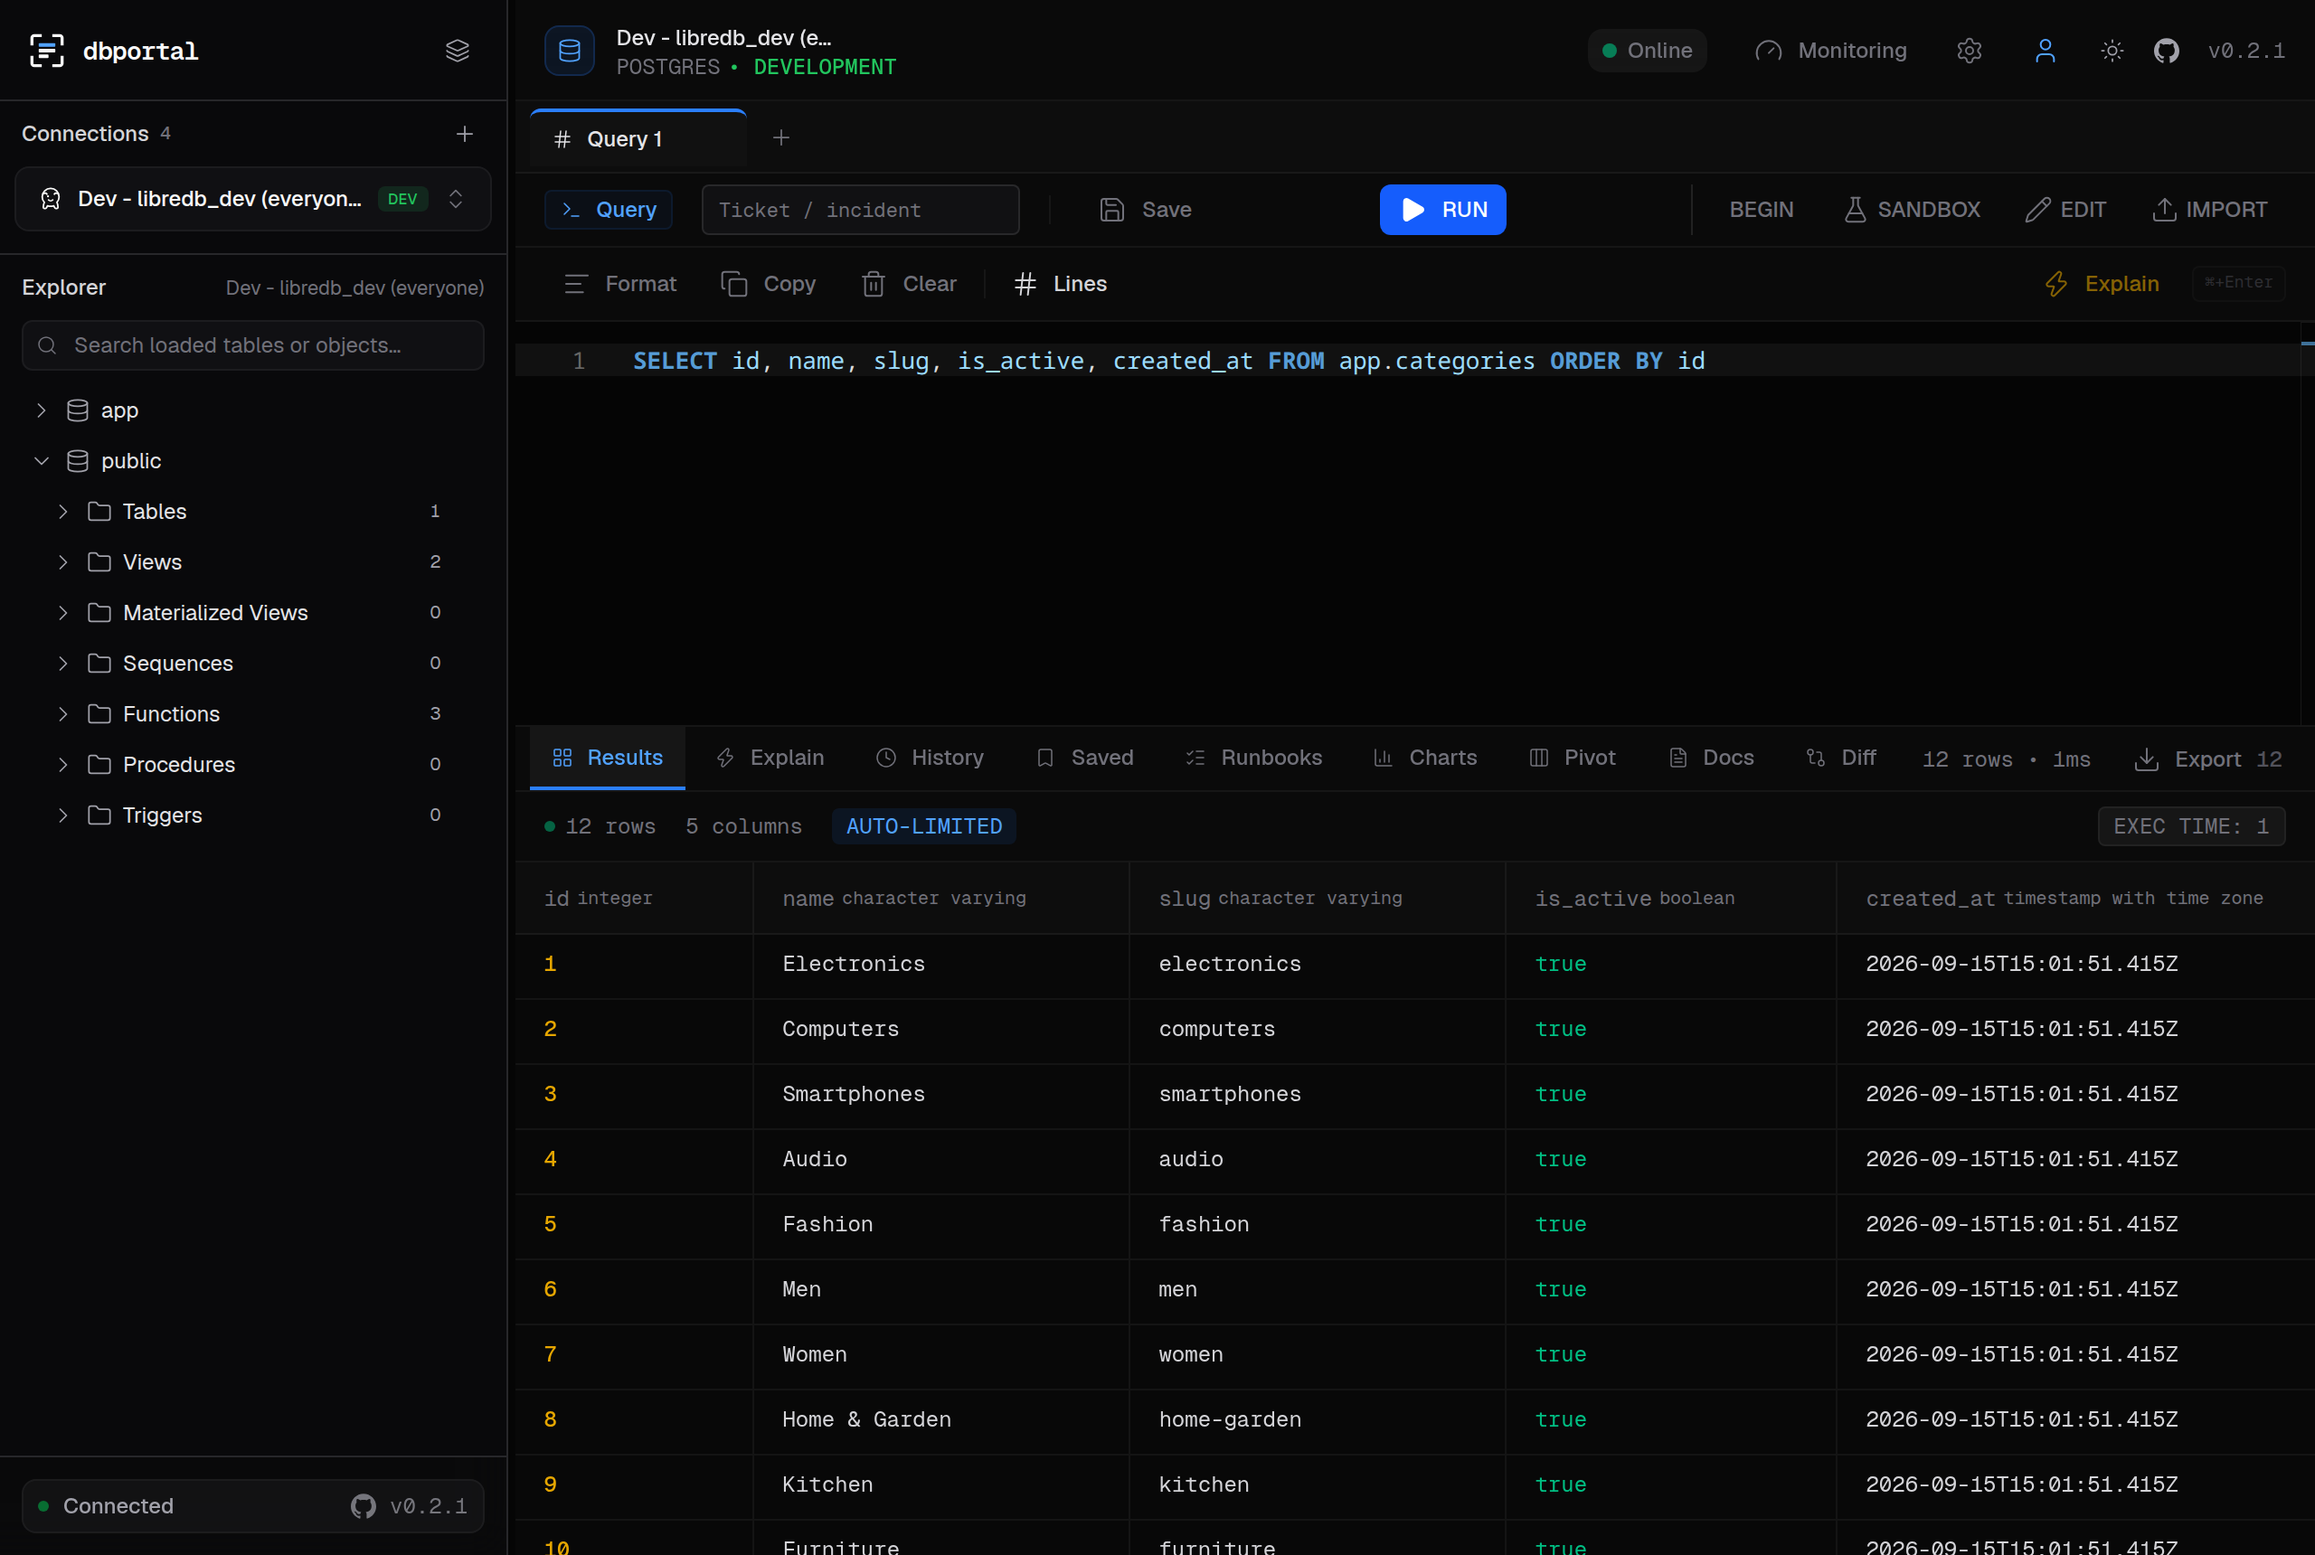
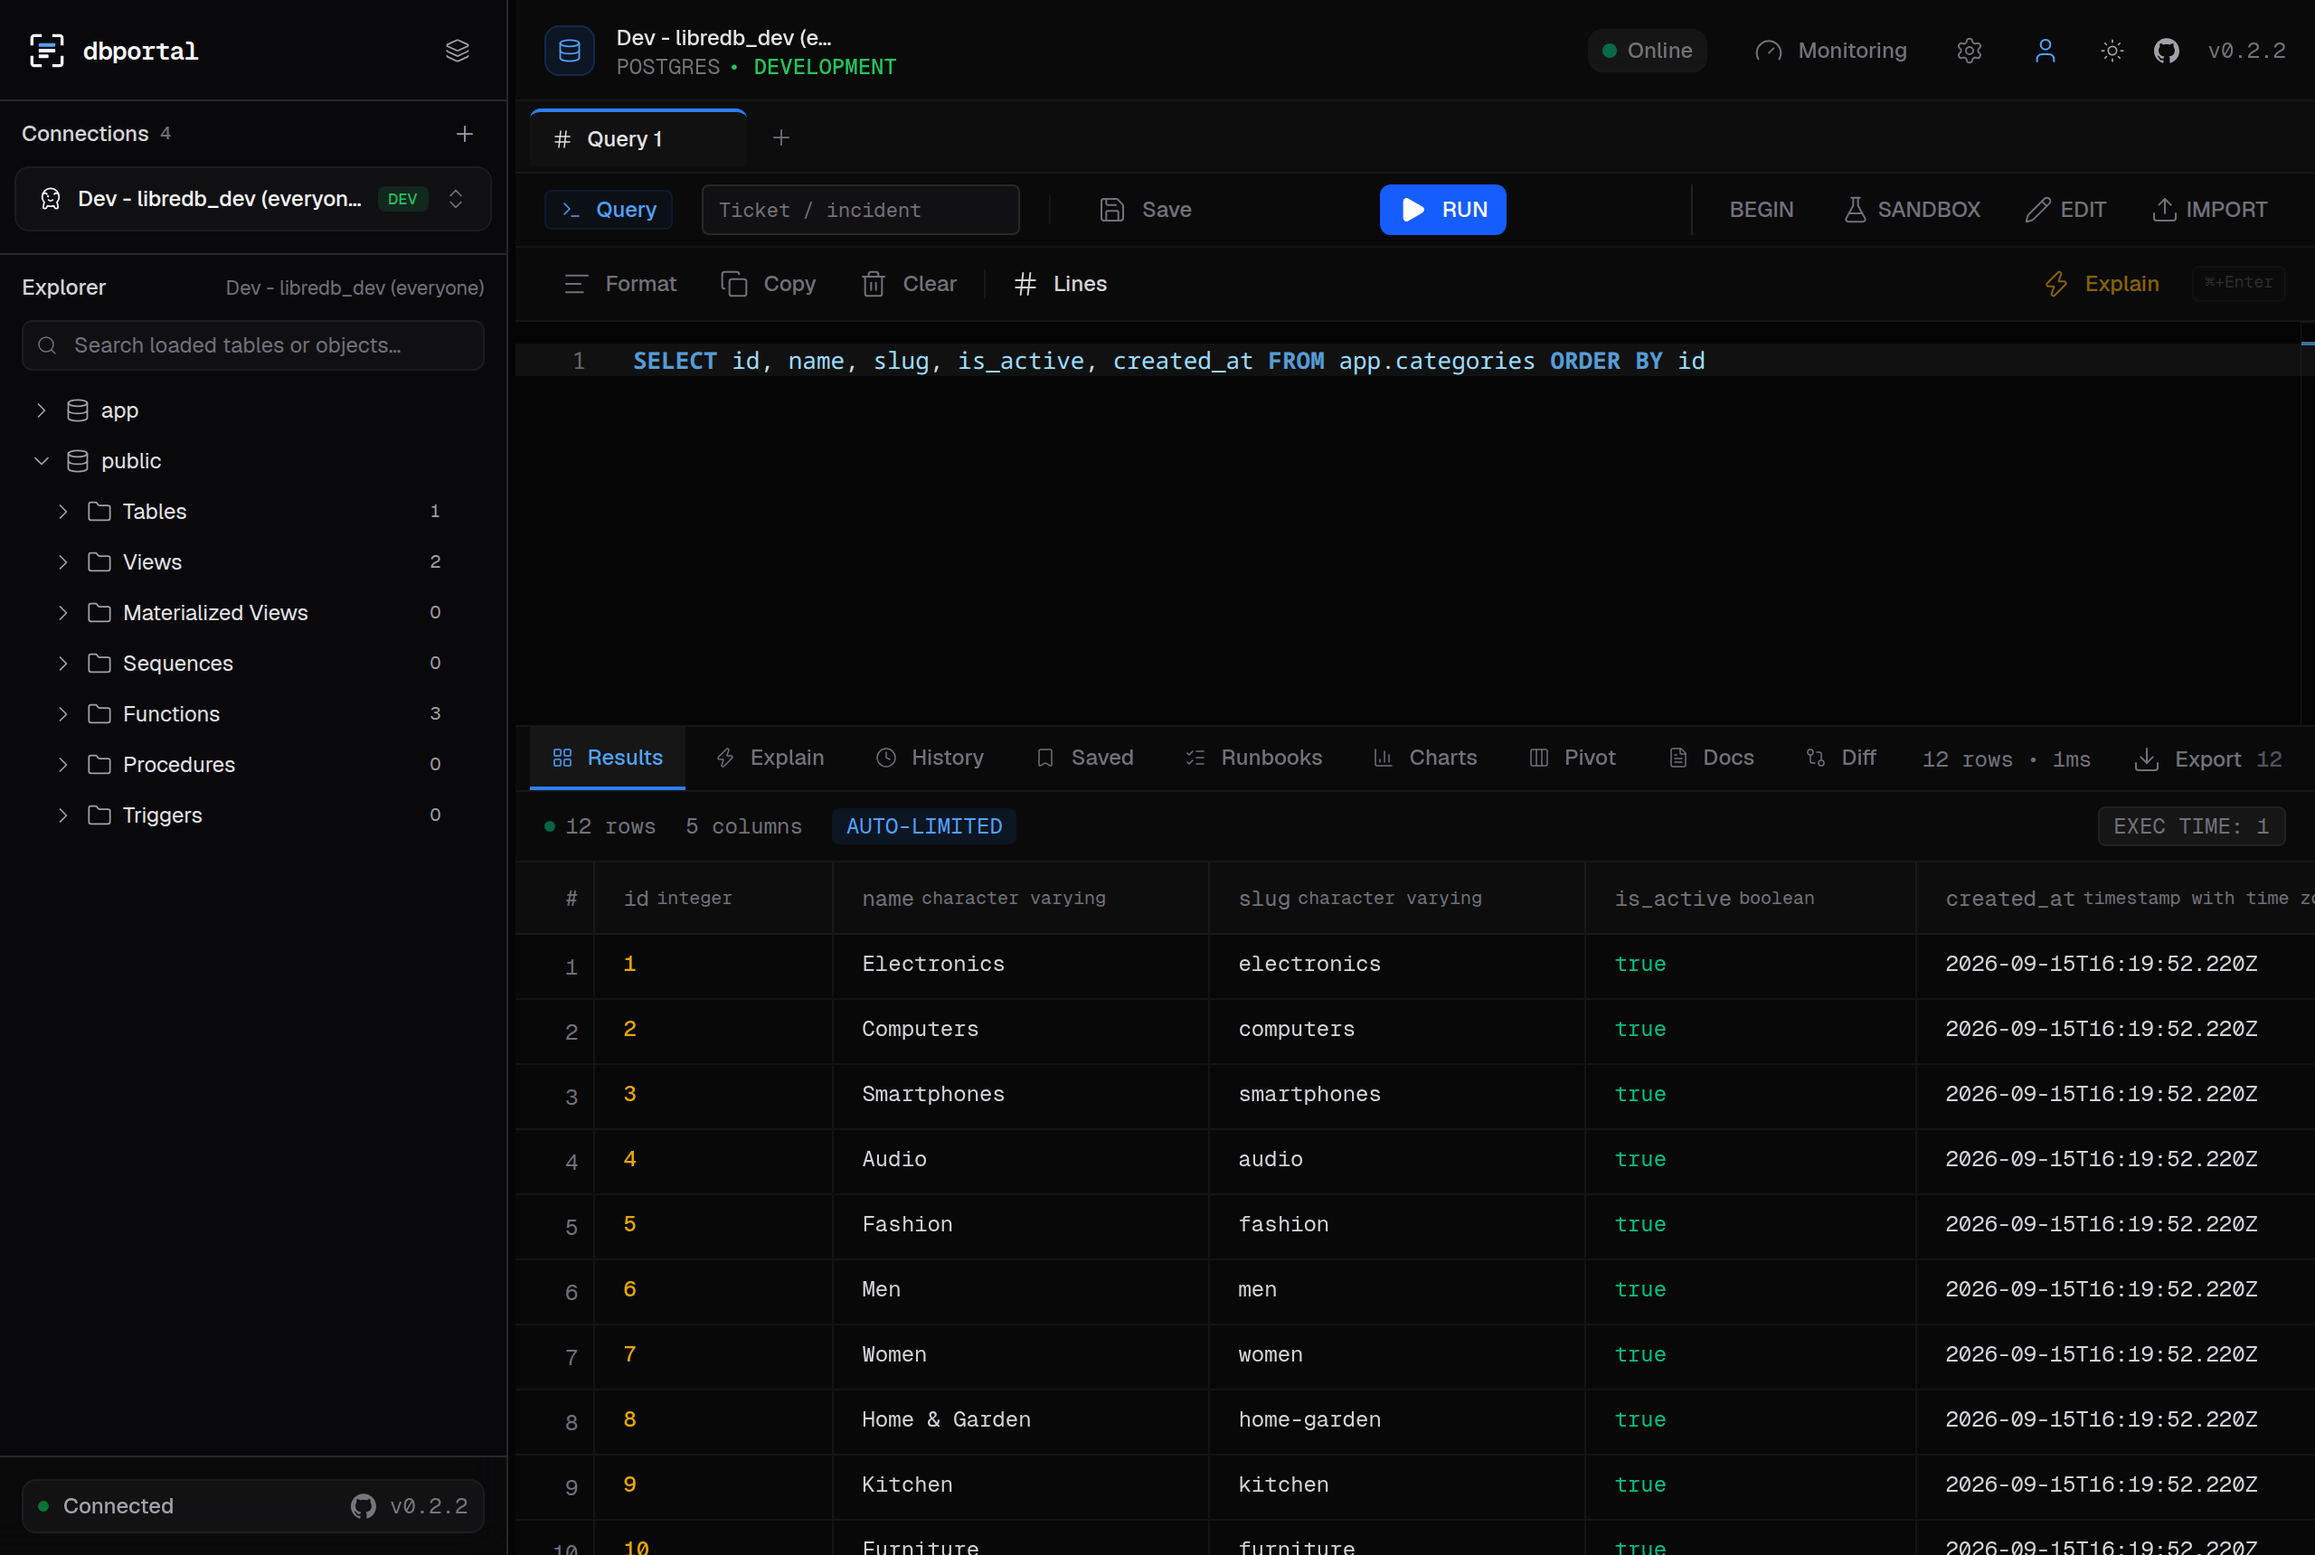
studio: a row-number column on every result
A sticky # column at the left of the grid, numbered by the position in
the order shown, so a sort or a filter renumbers from 1; wide enough for
the count and taken off the width the data columns stretch into. It is
no data column: exports, filters and sorting never see it. The screenshot
script picks the datasource by id (SHOT_DATASOURCE) so the studio picture
runs its statement where the tables are.

diff --git a/src/components/ResultsGrid.tsx b/src/components/ResultsGrid.tsx
@@ -476,10 +476,14 @@ export function ResultsGrid({
   useEffect(() => {
     sizedByHand.current = false;
   }, [result]);
+  // The row-number column (§4.42): the position in the order shown, wide enough for the count.
+  const rowNumberWidth = Math.max(44, Math.round(String(filteredRows.length).length * 7.2 + 24));
   useEffect(() => {
     if (sizedByHand.current) return;
-    setColumnSizing(fillWidth(fitColumns(result.fields, result.rows, result.columnTypes), containerWidth));
-  }, [result, containerWidth]);
+    setColumnSizing(
+      fillWidth(fitColumns(result.fields, result.rows, result.columnTypes), containerWidth - rowNumberWidth),
+    );
+  }, [result, containerWidth, rowNumberWidth]);
   const fitOne = useCallback(
     (field: string) => {
       sizedByHand.current = true;
@@ -702,6 +706,13 @@ export function ResultsGrid({
       <div ref={tableContainerRef} className="hidden md:block flex-1 overflow-auto editor-scrollbar">
         <div className="min-w-max">
           <div className="sticky top-0 z-20 bg-raised flex">
+            <div
+              aria-hidden="true"
+              style={{ width: rowNumberWidth, minWidth: rowNumberWidth }}
+              className="h-10 px-2 flex items-center justify-end border-r border-b border-hairline text-xs font-mono text-fg-muted bg-raised shrink-0 sticky left-0 z-10"
+            >
+              #
+            </div>
             {table.getHeaderGroups().map((headerGroup) =>
               headerGroup.headers.map((header) => (
                 <div
@@ -748,6 +759,13 @@ export function ResultsGrid({
                   }}
                   className="flex group hover:bg-brand-tint/[0.03] transition-colors border-b border-hairline"
                 >
+                  <div
+                    data-testid={`row-number-${virtualRow.index}`}
+                    style={{ width: rowNumberWidth, minWidth: rowNumberWidth }}
+                    className="h-full px-2 border-r border-hairline text-xs font-mono text-fg-muted tabular-nums flex items-center justify-end shrink-0 sticky left-0 bg-sunken select-none"
+                  >
+                    {virtualRow.index + 1}
+                  </div>
                   {row.getVisibleCells().map((cell) => (
                     <div
                       key={cell.id}

diff --git a/tests/components/ResultsGrid.test.tsx b/tests/components/ResultsGrid.test.tsx
@@ -1129,6 +1129,16 @@ describe("ResultsGrid", () => {
       expect(container.querySelector('[title="Drag to resize, double-click to fit"]')).not.toBeNull();
     });
 
+    // The row number (§4.42) is the position in the order shown, so a sort renumbers from 1.
+    test("rows are numbered by their position in the order shown", () => {
+      const { getByTestId, getAllByRole } = render(React.createElement(ResultsGrid, { result: mockResult }));
+      expect(getByTestId("row-number-0").textContent).toBe("1");
+      expect(getByTestId("row-number-2").textContent).toBe("3");
+      fireEvent.click(getAllByRole("button", { name: /^name/ })[0]);
+      fireEvent.click(getAllByRole("button", { name: /^name/ })[0]);
+      expect(getByTestId("row-number-0").textContent).toBe("1");
+    });
+
     test("column resize handles are hidden from assistive technology", () => {
       const { container } = render(React.createElement(ResultsGrid, { result: mockResult }));
       const handles = container.querySelectorAll(".cursor-col-resize");

diff --git a/docs/CONTEXT.md b/docs/CONTEXT.md
@@ -798,7 +798,9 @@ built. Each lands as its own section when done.
   and tested on its numbers). A drag on the handle - an 8 px hit area with a line on hover -
   makes the widths the person's for that result; a double-click on the handle fits that
   column to its content again; a new result starts over. Nothing is persisted: a width is a
-  reading aid, not a setting.
+  reading aid, not a setting. A row-number column, `#`, sits at the left, sticky, numbered
+  by the position in the order shown - a sort or a filter renumbers from 1 - and is no data
+  column: exports, filters and sorting never see it.
 
 ## 5. Decisions already taken
 
